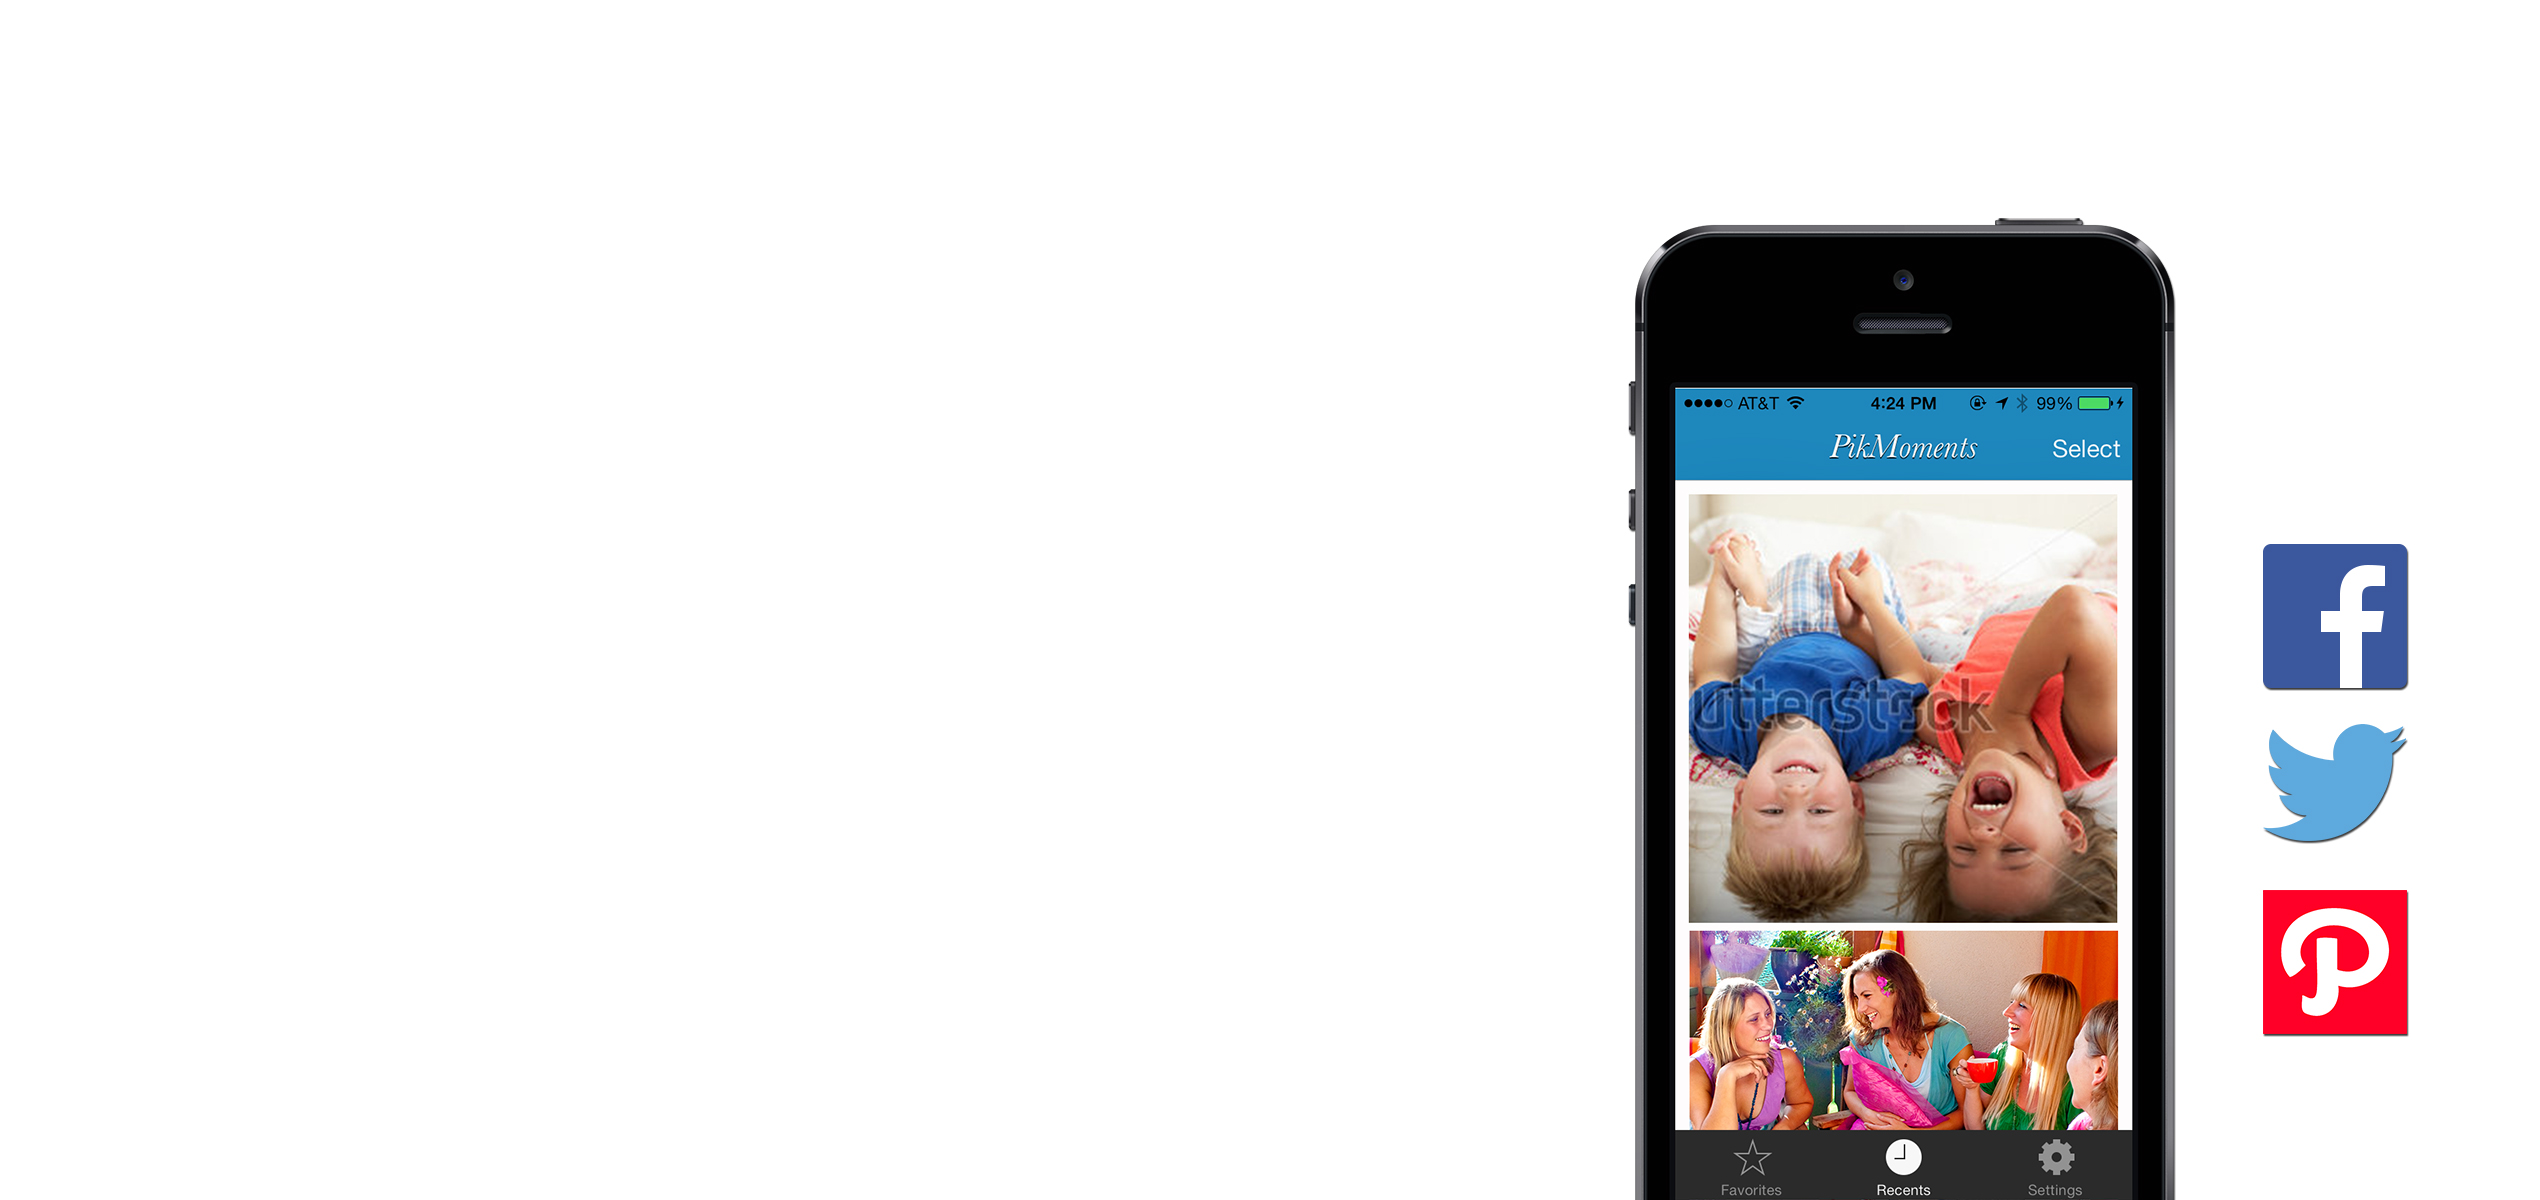
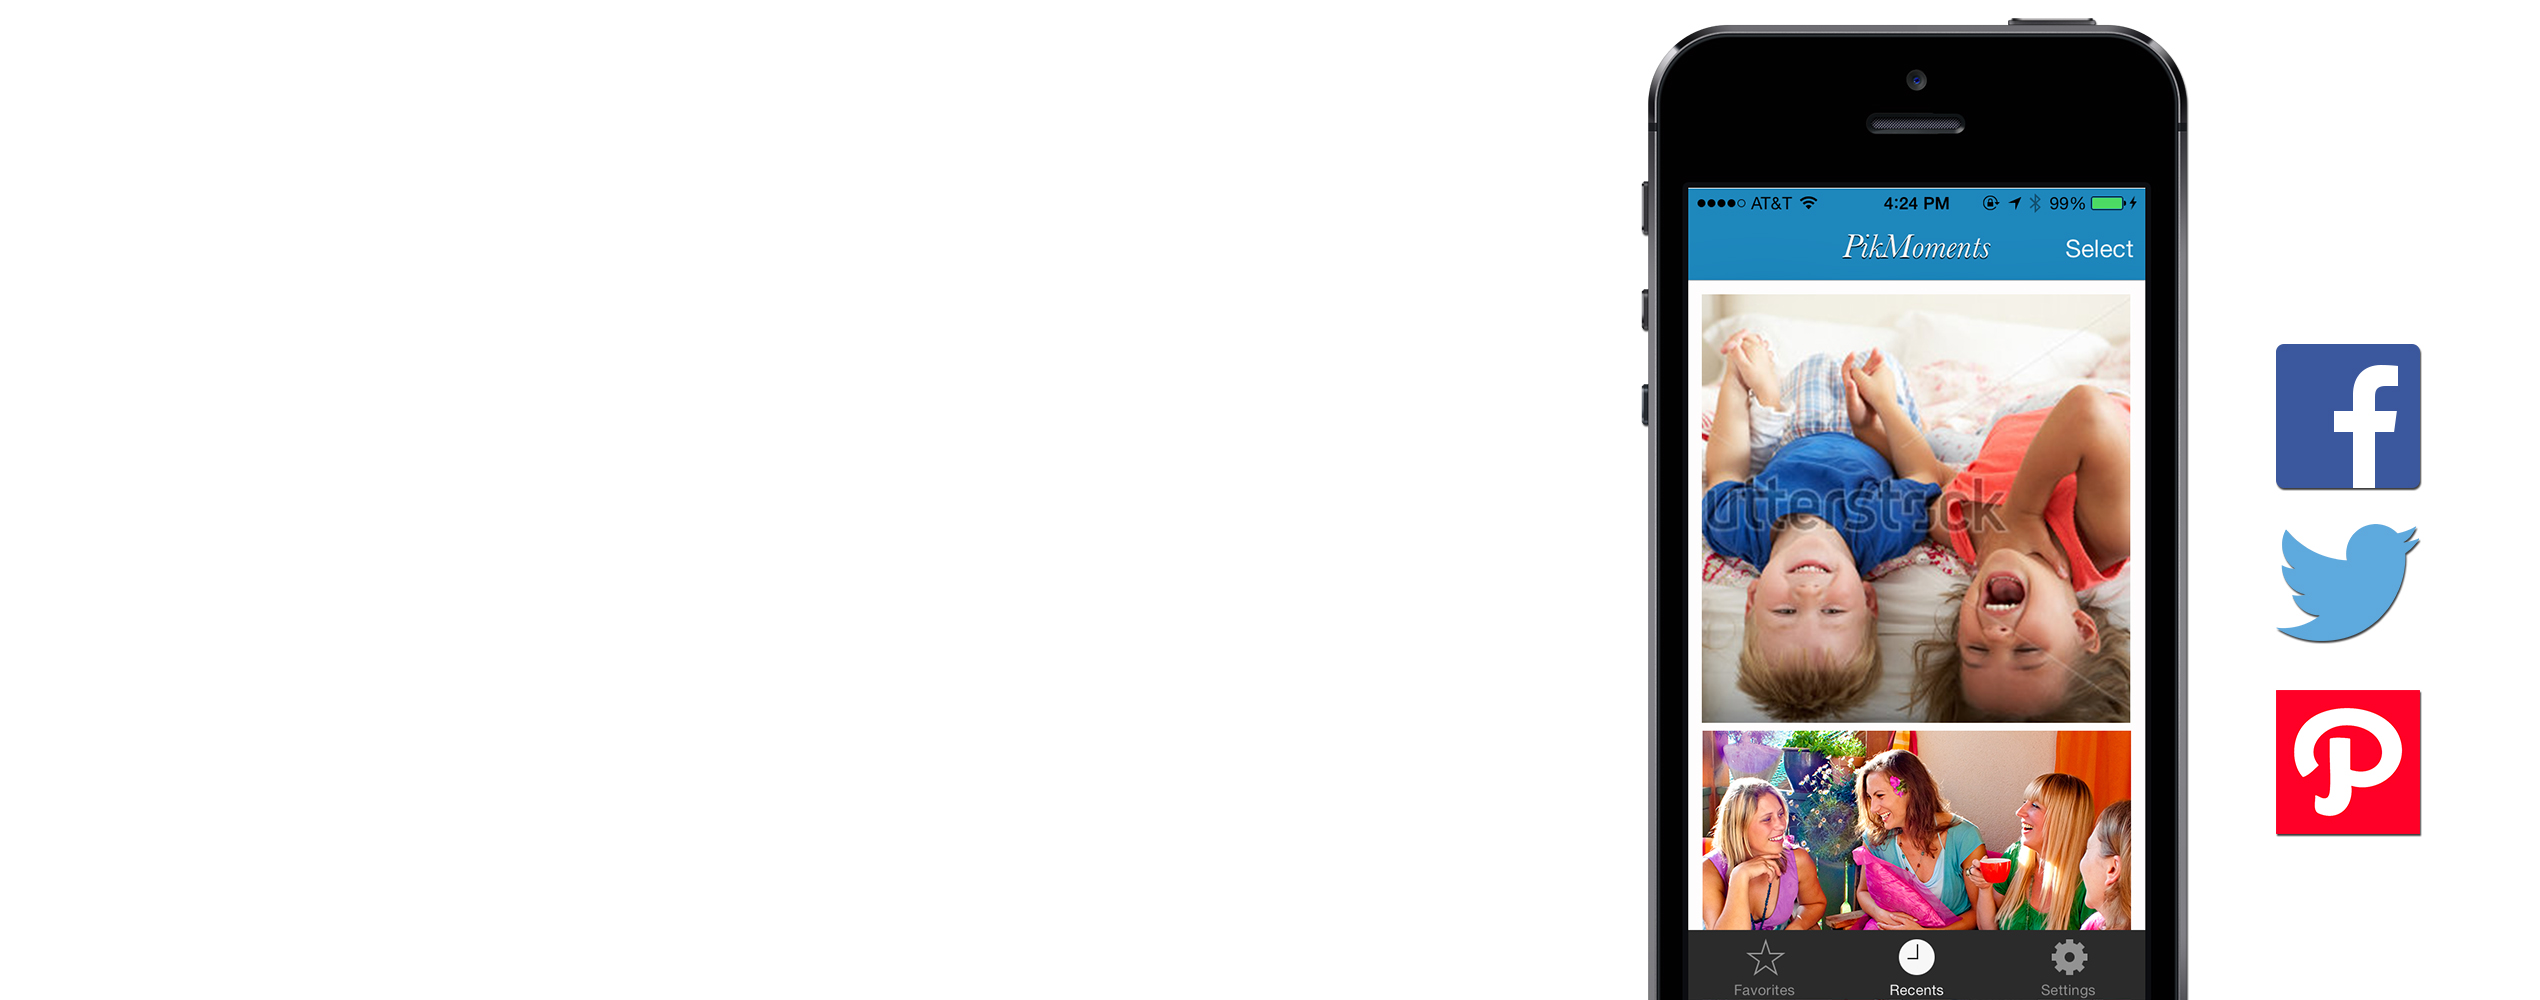
updated the keypoint images

Changed region(s): [[0.622, 0.0, 0.9642, 1.0]]

diff --git a/app/assets/stylesheets/homepage/key_points.css.scss b/app/assets/stylesheets/homepage/key_points.css.scss
@@ -49,14 +49,14 @@
 #phone_outer 
 {
   background: url(image_path("keypointImages/phoneAndSocial.jpg")) no-repeat center center;
-  background-size: 1270px 600px;
+  background-size: 1270px 500px;
   background-position: center top;
-  height: 600px;
+  height: 500px;
 }
 
 #phone 
 {
-  height: 600px;
+  height: 500px;
 }
 
 #phone .key_point
